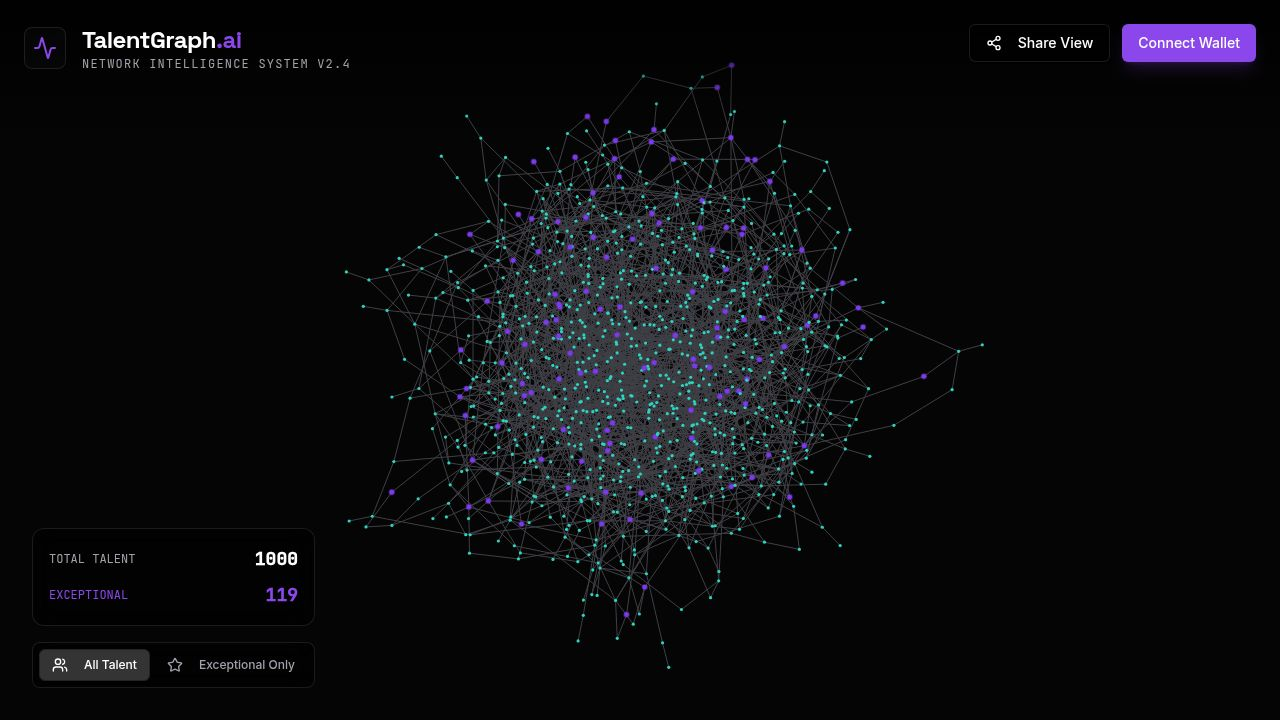
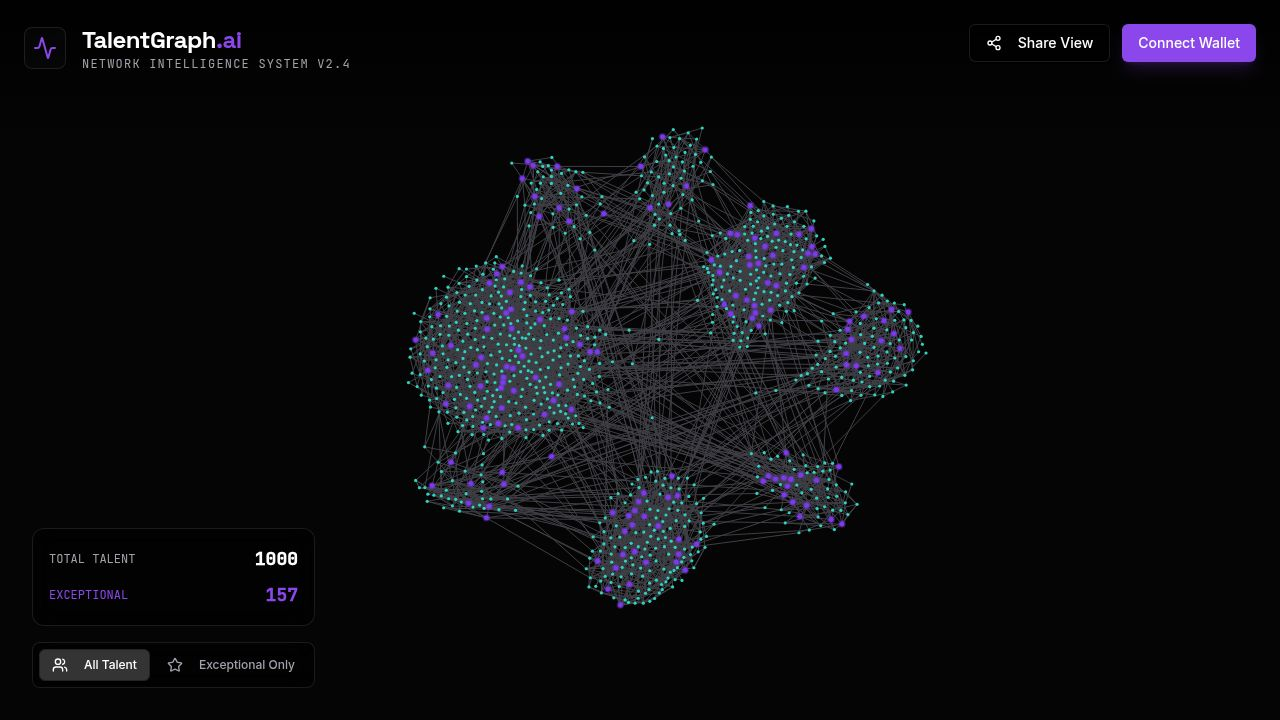
Rearrange network graph into distinct geographic clusters
Implement custom forces and adjust simulation parameters in NetworkCanvas.tsx to create a constellation-like layout of interconnected geographic clusters. Modify mock data generation in mockData.ts to increase the probability of intra-cluster connections, ensuring distinct "islands" with sparse inter-cluster links.

Replit-Commit-Author: Agent
Replit-Commit-Session-Id: f2da9af0-5dc9-43ad-8e9c-901f2eba3dab
Replit-Commit-Checkpoint-Type: full_checkpoint
Replit-Commit-Event-Id: 623a21f6-2885-48f0-a2d9-dcefc35cc837
Replit-Commit-Screenshot-Url: https://storage.googleapis.com/screenshot-production-us-central1/5ab93c79-3168-450f-94ce-61b7194154bd/f2da9af0-5dc9-43ad-8e9c-901f2eba3dab/aH45ajI
Replit-Helium-Checkpoint-Created: true

Changed region(s): [[0.2812, 0.1528, 0.75, 0.8861], [0.2188, 0.7944, 0.25, 0.825]]

diff --git a/client/src/components/NetworkCanvas.tsx b/client/src/components/NetworkCanvas.tsx
@@ -38,22 +38,61 @@ export function NetworkCanvas({ data, onNodeClick, filter }: NetworkCanvasProps)
     if (graphRef.current) {
       // 1. Charge: Repulsion. Negative value pushes nodes apart.
       // Stronger repulsion (-80) prevents the tight ball.
-      graphRef.current.d3Force('charge').strength(-120).distanceMax(500);
+      graphRef.current.d3Force('charge').strength(-200).distanceMax(600);
 
       // 2. Link: Connection stiffness/length.
       // Longer distance allows clusters to separate.
-      graphRef.current.d3Force('link').distance(45);
+      graphRef.current.d3Force('link').distance(70);
 
       // 3. Collide: Prevent overlap
-      graphRef.current.d3Force('collide', d3.forceCollide(10));
+      graphRef.current.d3Force('collide', d3.forceCollide(12));
 
       // 4. Center: Keep it visible in viewport, but don't crush it
-      graphRef.current.d3Force('center').strength(0.05);
+      graphRef.current.d3Force('center').strength(0.01);
       
+      // 5. Custom Cluster Force: Pull nodes towards distinct focal points based on their group
+      // This forces the "geographic" separation
+      const clusterForce = (alpha: number) => {
+        data.nodes.forEach((node: any) => {
+          // Define explicit centers for clusters (8 clusters total in mockData)
+          // We distribute them in a ring or varied positions
+          const clusterId = node.clusterGroup || 0;
+          
+          // SF (0) - Center Left (Large)
+          // NY (1) - Top Right
+          // London (2) - Far Right
+          // Waterloo (3) - Top Left
+          // Remote (4) - Bottom Center (Scattered)
+          // Tokyo (5) - Bottom Right
+          // Berlin (6) - Top Center
+          // Singapore (7) - Bottom Left
+          
+          const centers: Record<number, {x: number, y: number}> = {
+            0: { x: -300, y: 0 },    // SF
+            1: { x: 300, y: -200 },  // NY
+            2: { x: 500, y: -50 },   // London
+            3: { x: -200, y: -300 }, // Waterloo
+            4: { x: 0, y: 400 },     // Remote
+            5: { x: 400, y: 300 },   // Tokyo
+            6: { x: 100, y: -400 },  // Berlin
+            7: { x: -400, y: 200 },  // Singapore
+          };
+          
+          const target = centers[clusterId] || { x: 0, y: 0 };
+          
+          // Move towards target
+          node.vx += (target.x - node.x) * 1 * alpha;
+          node.vy += (target.y - node.y) * 1 * alpha;
+        });
+      };
+      
+      // Register custom force
+      graphRef.current.d3Force('cluster', clusterForce);
+
       // Re-heat simulation
       graphRef.current.d3ReheatSimulation();
     }
-  }, [graphRef.current]);
+  }, [graphRef.current, data]);
 
   const paintNode = useCallback((node: any, ctx: CanvasRenderingContext2D, globalScale: number) => {
     const isExceptional = node.exceptional;

diff --git a/client/src/lib/mockData.ts b/client/src/lib/mockData.ts
@@ -124,7 +124,7 @@ export function generateGraphData(count: number = 1000) {
 
     for (let j = 0; j < numLinks; j++) {
       let targetIndex;
-      const stayInCluster = Math.random() > 0.15; // 85% chance to stay in cluster
+      const stayInCluster = Math.random() > 0.05; // 95% chance to stay in cluster (increased from 85%)
 
       if (stayInCluster) {
         // Find a random node in the same location
@@ -137,7 +137,7 @@ export function generateGraphData(count: number = 1000) {
         do {
            targetIndex = randomInt(0, count - 1);
            attempts++;
-        } while (nodes[targetIndex].location !== node.location && attempts < 10);
+        } while (nodes[targetIndex].location !== node.location && attempts < 20);
       } else {
         // Connect to anywhere (bridge between clusters)
         targetIndex = randomInt(0, count - 1);
